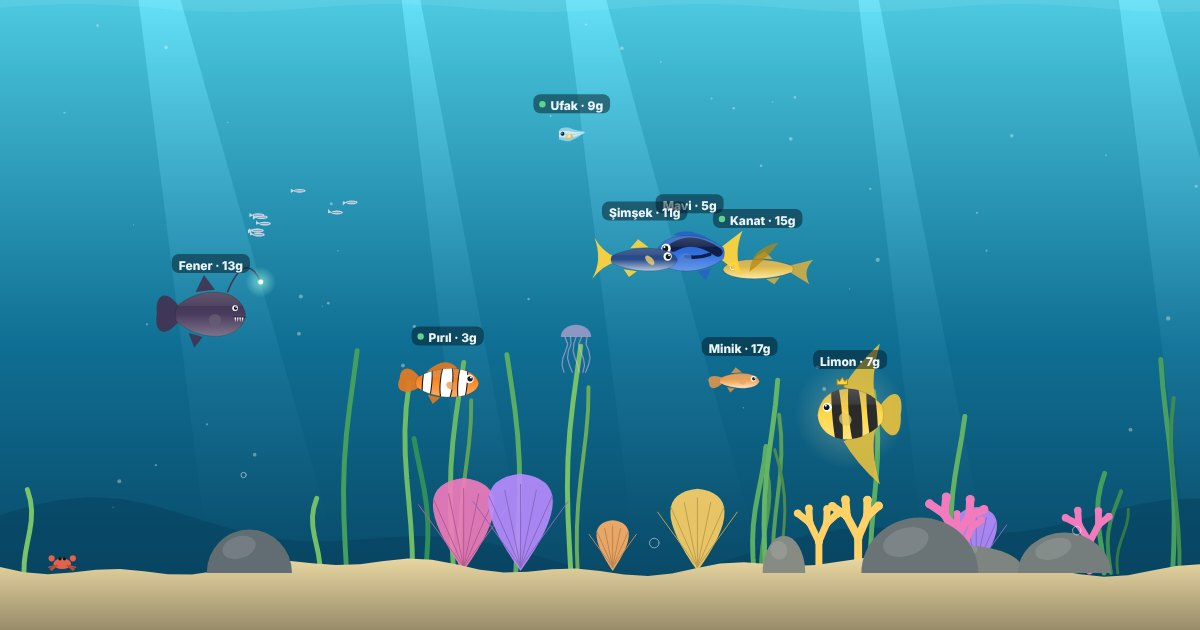
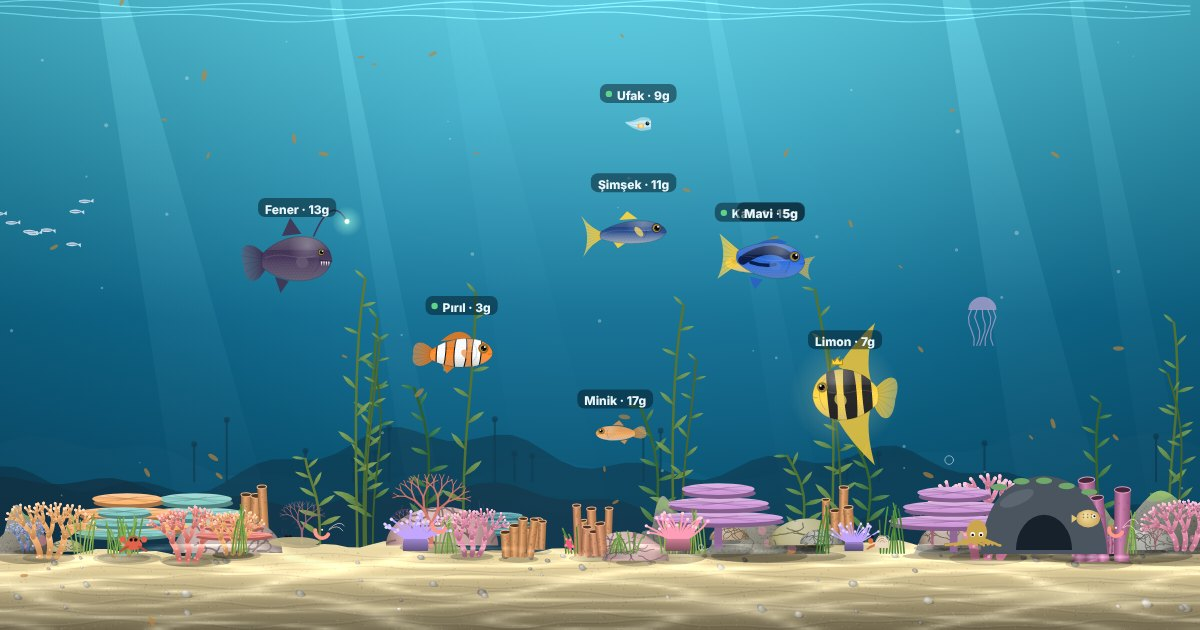
Derin Mavi: gerçekçi ortam — katmanlı uzak sırtlar, dokulu kum ve kayalar, beyin/geyik boynuzu/masa/tüp/yelpaze/kırbaç mercanları, yapraklı yosun, deniz çayırı, anemonlar, kumda ışık ağları; balıklarda kıvrılarak yüzme, pul dokusu, yüzgeç ışınları, gerçekçi göz ve kuma düşen gölge
Claude-Session: https://claude.ai/code/session_01Hy1m5zZ5JCcBmXsF4Vy66L

diff --git a/derin-mavi.html b/derin-mavi.html
@@ -554,12 +554,15 @@ function palet(d, t) {
 
 /* ================= balık çizimi =================
    d: { a: aşama, al: alan, tr: tür, r: renk, z: [aksesuar] } · L: boy (piksel) · yön: +1 sağa, −1 sola */
+/* yüzerken gövdenin arka yarısı kıvrılır */
+let BUK = 0;
+const bk = (x, L) => x < 0 ? BUK * L * Math.pow(x / (L * 0.5), 2) * 0.5 : 0;
 function govdeYol(c, L, h) {
-  const n = L * 0.5, t = -L * 0.5;
+  const n = L * 0.5, t = -L * 0.5, f1 = bk(-L * 0.14, L), ft = bk(t, L);
   c.beginPath(); c.moveTo(n, h * 0.05);
-  c.bezierCurveTo(n - L * 0.04, -h * 0.95, -L * 0.14, -h * 1.12, t, -h * 0.26);
-  c.quadraticCurveTo(t - L * 0.03, 0, t, h * 0.26);
-  c.bezierCurveTo(-L * 0.14, h * 1.12, n - L * 0.04, h * 0.95, n, h * 0.05);
+  c.bezierCurveTo(n - L * 0.04, -h * 0.95, -L * 0.14, -h * 1.12 + f1, t, -h * 0.26 + ft);
+  c.quadraticCurveTo(t - L * 0.03, ft, t, h * 0.26 + ft);
+  c.bezierCurveTo(-L * 0.14, h * 1.12 + f1, n - L * 0.04, h * 0.95, n, h * 0.05);
   c.closePath();
 }
 function kuyrukYol(c, tip, tl, h) {
@@ -595,15 +598,17 @@ function balikCiz(c, d, x, y, L, faz, yon, o = {}) {
   if ((d.a | 0) === 0) { larvaCiz(c, L, faz, alfa); c.restore(); return; }
   const tr = d.a >= 2 && d.tr && TURLER[d.tr], g = tr ? tr.g : YAVRU_G, P = palet(d, t);
   const Lb = L * (g.L || 1), h = Lb * g.H * 0.5, nx = Lb * 0.5;
-  const dalga = Math.sin(faz) * 0.3;
+  const dalga = Math.sin(faz) * 0.3; BUK = o.sabit ? 0 : Math.sin(faz - 0.9) * 0.13;
   if (d.a >= 4) { const ag = c.createRadialGradient(0, 0, Lb * 0.1, 0, 0, Lb * 0.85); ag.addColorStop(0, 'rgba(255,240,190,.28)'); ag.addColorStop(1, 'rgba(255,240,190,0)'); c.fillStyle = ag; c.beginPath(); c.arc(0, 0, Lb * 0.85, 0, TAU); c.fill(); }
   if (g.seffaf) c.globalAlpha = alfa * 0.82;
   const yuzR = g.yuzgecR ? P[g.yuzgecR] : koyu(P[0], 0.12);
   /* kuyruk */
   if (g.kuyruk !== 'yok') {
-    c.save(); c.translate(-Lb * 0.5, 0); c.rotate(dalga);
-    c.fillStyle = g.kuyrukR ? P[g.kuyrukR] : yuzR; c.globalAlpha *= 0.95;
-    kuyrukYol(c, g.kuyruk, Lb * (g.kuyruk === 'hilal' ? 0.3 : 0.28), Math.max(h, Lb * 0.16)); c.fill();
+    c.save(); c.translate(-Lb * 0.5, bk(-Lb * 0.5, Lb)); c.rotate(dalga * 0.75 - BUK * 1.6);
+    const kr = g.kuyrukR ? P[g.kuyrukR] : yuzR, tl = Lb * (g.kuyruk === 'hilal' ? 0.3 : 0.28), th = Math.max(h, Lb * 0.16);
+    const kg = c.createLinearGradient(0, 0, -tl, 0); kg.addColorStop(0, kr); kg.addColorStop(1, rgba(acik(kr, 0.2), 0.7));
+    c.fillStyle = kg; c.globalAlpha *= 0.92; kuyrukYol(c, g.kuyruk, tl, th); c.fill();
+    if (Lb > 26) { c.save(); kuyrukYol(c, g.kuyruk, tl, th); c.clip(); c.strokeStyle = 'rgba(0,0,0,.16)'; c.lineWidth = Math.max(0.5, Lb * 0.006); for (let i = -4; i <= 4; i++) { c.beginPath(); c.moveTo(2, i * th * 0.04); c.lineTo(-tl * 1.1, i * th * 0.34); c.stroke(); } c.restore(); }
     c.restore();
   }
   /* sırt ve karın yüzgeçleri */
@@ -638,7 +643,15 @@ function balikCiz(c, d, x, y, L, faz, yon, o = {}) {
     c.fillStyle = rgba(P[2], 0.75); for (let i = 0; i < 7; i++) { const u = i / 6; c.beginPath(); c.arc(Lb * 0.3 - u * Lb * 0.72, -h * 0.25 + Math.sin(i * 1.7) * h * 0.25, Math.max(0.8, h * 0.11), 0, TAU); c.fill(); }
   }
   /* parlaklık */
-  const pg = c.createLinearGradient(0, -h, 0, 0); pg.addColorStop(0, 'rgba(255,255,255,.22)'); pg.addColorStop(1, 'rgba(255,255,255,0)'); c.fillStyle = pg; c.fillRect(-Lb, -h, Lb * 2, h * 0.7);
+  if (Lb > 30 && !g.seffaf) {
+    c.strokeStyle = 'rgba(0,0,0,.07)'; c.lineWidth = Math.max(0.5, Lb * 0.005); const ps = Math.max(2.2, Lb * 0.045);
+    for (let yy = -h * 0.8; yy <= h * 0.8; yy += ps * 0.9) for (let xx = Lb * 0.22, j = 0; xx > -Lb * 0.46; xx -= ps * 1.1, j++) { const ox = (Math.round(yy / ps) % 2) * ps * 0.55; c.beginPath(); c.arc(xx - ox, yy + bk(xx - ox, Lb), ps * 0.62, -Math.PI / 2, Math.PI / 2); c.stroke(); }
+  }
+  c.strokeStyle = 'rgba(255,255,255,.2)'; c.lineWidth = Math.max(0.6, Lb * 0.008); c.beginPath(); for (let i = 0; i <= 10; i++) { const xx = Lb * 0.26 - i / 10 * Lb * 0.72; c.lineTo(xx, -h * 0.08 + Math.sin(i * 0.6) * h * 0.06 + bk(xx, Lb)); } c.stroke();
+  c.strokeStyle = 'rgba(0,0,0,.2)'; c.lineWidth = Math.max(0.7, Lb * 0.012); c.beginPath(); c.arc(nx - Lb * 0.46, 0, h * 0.75, -0.75, 0.75); c.stroke();
+  const pg = c.createLinearGradient(0, -h, 0, 0); pg.addColorStop(0, 'rgba(255,255,255,.26)'); pg.addColorStop(1, 'rgba(255,255,255,0)'); c.fillStyle = pg; c.fillRect(-Lb, -h, Lb * 2, h * 0.7);
+  const sp = c.createRadialGradient(Lb * 0.15, -h * 0.45, 0, Lb * 0.15, -h * 0.45, Lb * 0.28); sp.addColorStop(0, 'rgba(255,255,255,.28)'); sp.addColorStop(1, 'rgba(255,255,255,0)'); c.fillStyle = sp; c.fillRect(-Lb * 0.2, -h, Lb * 0.7, h);
+  const ag = c.createLinearGradient(0, h * 0.2, 0, h); ag.addColorStop(0, 'rgba(0,0,0,0)'); ag.addColorStop(1, 'rgba(0,10,20,.22)'); c.fillStyle = ag; c.fillRect(-Lb, 0, Lb * 2, h);
   c.restore();
   govdeYol(c, Lb, h); c.strokeStyle = 'rgba(0,0,0,.18)'; c.lineWidth = Math.max(0.6, Lb * 0.012); c.stroke();
   /* ışık organları */
@@ -662,17 +675,20 @@ function balikCiz(c, d, x, y, L, faz, yon, o = {}) {
   if (d.h) { c.fillStyle = 'rgba(255,255,255,.9)'; for (let i = 0; i < 7; i++) { c.beginPath(); c.arc(Lb * (0.25 - i * 0.1), -h * 0.4 + ((i * 37) % 9) / 9 * h * 0.9, Math.max(0.9, h * 0.08), 0, TAU); c.fill(); } }
   /* göz */
   const gx = nx - Lb * 0.15, gy = -h * 0.22, gr = Math.max(1.3, Math.min(h * 0.3, Lb * 0.07) * (g.goz || 1));
-  c.fillStyle = '#fff'; c.beginPath(); c.arc(gx, gy, gr, 0, TAU); c.fill();
-  c.fillStyle = '#0E1A22'; c.beginPath(); c.arc(gx + gr * 0.15, gy, gr * 0.62, 0, TAU); c.fill();
-  c.fillStyle = '#fff'; c.beginPath(); c.arc(gx + gr * 0.35, gy - gr * 0.3, gr * 0.22, 0, TAU); c.fill();
-  if (o.uyku) { c.strokeStyle = '#0E1A22'; c.lineWidth = Math.max(1, gr * 0.35); c.fillStyle = P[0]; c.beginPath(); c.arc(gx, gy, gr * 1.05, Math.PI, TAU); c.fill(); c.beginPath(); c.moveTo(gx - gr, gy); c.lineTo(gx + gr, gy); c.stroke(); }
+  c.fillStyle = koyu(P[0], 0.35); c.beginPath(); c.arc(gx, gy, gr * 1.18, 0, TAU); c.fill();
+  const ig = c.createRadialGradient(gx, gy, gr * 0.3, gx, gy, gr); ig.addColorStop(0, '#E8C56A'); ig.addColorStop(1, '#8A6A2A'); c.fillStyle = ig; c.beginPath(); c.arc(gx, gy, gr, 0, TAU); c.fill();
+  c.fillStyle = '#05090C'; c.beginPath(); c.arc(gx + gr * 0.1, gy, gr * 0.64, 0, TAU); c.fill();
+  c.fillStyle = 'rgba(255,255,255,.95)'; c.beginPath(); c.arc(gx + gr * 0.35, gy - gr * 0.32, gr * 0.24, 0, TAU); c.fill();
+  c.fillStyle = 'rgba(255,255,255,.4)'; c.beginPath(); c.arc(gx - gr * 0.25, gy + gr * 0.3, gr * 0.12, 0, TAU); c.fill();
+  if (!g.dis && !g.gaga) { c.strokeStyle = 'rgba(0,0,0,.35)'; c.lineWidth = Math.max(0.6, Lb * 0.01); c.beginPath(); c.moveTo(nx, h * 0.06); c.quadraticCurveTo(nx - Lb * 0.03, h * 0.16, nx - Lb * 0.07, h * 0.12); c.stroke(); }
+  if (o.uyku) { c.strokeStyle = '#0E1A22'; c.lineWidth = Math.max(1, gr * 0.35); c.fillStyle = P[0]; c.beginPath(); c.arc(gx, gy, gr * 1.22, Math.PI, TAU); c.fill(); c.beginPath(); c.moveTo(gx - gr, gy); c.lineTo(gx + gr, gy); c.stroke(); }
   /* taç */
   if (d.z && d.z.includes('tac')) {
     const tx = Lb * 0.12, ty = -h * (g.sirt === 'yelken' ? 0.95 : 1.02), tw = Math.max(5, Lb * 0.16);
     c.fillStyle = '#FFD23F'; c.strokeStyle = '#B8860B'; c.lineWidth = 1;
     c.beginPath(); c.moveTo(tx - tw / 2, ty); c.lineTo(tx - tw / 2, ty - tw * 0.55); c.lineTo(tx - tw / 4, ty - tw * 0.3); c.lineTo(tx, ty - tw * 0.7); c.lineTo(tx + tw / 4, ty - tw * 0.3); c.lineTo(tx + tw / 2, ty - tw * 0.55); c.lineTo(tx + tw / 2, ty); c.closePath(); c.fill(); c.stroke();
   }
-  c.restore();
+  BUK = 0; c.restore();
 }
 /* aşamaya göre piksel boyu */
 function pikselBoy(d, olcek) {
@@ -748,65 +764,270 @@ function boyut() {
   alanHesap(); sahneKur();
 }
 function alanHesap() {
-  const p = $('panel'), genis = W >= 860, kum = Math.max(54, H * 0.1);
+  const p = $('panel'), genis = W >= 860, kum = Math.max(60, H * 0.13);
   let kumY = H - kum, y2 = H - kum * 0.55;
   /* telefonda panel ekranın altını kaplar: kum zemini panelin hemen üstüne çıkar ki sürpriz ve süsler görünsün */
   if (!p.hidden && !genis) { const sb = $('secimBtn'), ph = p.offsetHeight - (sb.hidden ? 0 : sb.offsetHeight + 9) + 53; kumY = Math.min(kumY, H - ph - 14); y2 = kumY - 26; }
   ALAN = { x1: 20, x2: W - 20, y1: 70 + (W < 520 ? 30 : 0), y2: Math.max(170, y2), kum, kumY };
 }
+/* ================= ortam (sahne) — gerçekçi sürüm =================
+   Durağan katmanlar (uzak arka plan; kum, kaya, mercan) bir kez ekran dışı tuvallere çizilir,
+   her karede tek resim olarak basılır. Yosun, deniz çayırı, anemon ve kumdaki ışık oyunları canlı çizilir. */
+function katman() { const k = document.createElement('canvas'); k.width = Math.max(1, Math.round(W * DPR)); k.height = Math.max(1, Math.round(H * DPR)); const c = k.getContext('2d'); c.setTransform(DPR, 0, 0, DPR, 0, 0); return [k, c]; }
 function sahneKur() {
-  const tm = tema(), r = tohumRnd((gorunenAkv() || 'yerel') + tm), kumY = ALAN.kumY || H - ALAN.kum;
-  const kayalar = [], yosun = [], mercan = [], kabarcik = [], toz = [];
-  for (let i = 0; i < 5; i++) kayalar.push({ x: r() * W, w: (40 + r() * 90) * OL, h: (22 + r() * 40) * OL, c: karis('#5B6770', '#8A8F86', r()) });
-  const yn = Math.round(W / 110) + 3;
-  for (let i = 0; i < yn; i++) yosun.push({ x: r() * W, h: (70 + r() * 170) * OL, faz: r() * TAU, c: karis('#2F8F5B', '#7BC46B', r()), k: 1 + Math.floor(r() * 3) });
-  if (tm === 'resif') for (let i = 0; i < Math.round(W / 160) + 2; i++) mercan.push({ x: r() * W, s: (30 + r() * 45) * OL, c: ['#FF7F7F', '#FFB067', '#F27BBD', '#B98CFF', '#FFD166'][Math.floor(r() * 5)], tip: r() < 0.5 ? 0 : 1, faz: r() * 9 });
+  const tm = tema(), r = tohumRnd((gorunenAkv() || 'yerel') + tm), kumY = ALAN.kumY || H - ALAN.kum, A = ALANLAR[tm];
+  const kayalar = [], yosun = [], mercan = [], kabarcik = [], toz = [], cim = [], anemon = [];
+  const nKaya = Math.round(W / 260) + 3;
+  for (let i = 0; i < nKaya; i++) kayalar.push({ x: r() * W, w: (50 + r() * 110) * OL, h: (24 + r() * 46) * OL, c: tm === 'derin' ? karis('#3C4450', '#55505C', r()) : karis('#6A6F66', '#8E8A7C', r()), tohum: r() * 1e6 });
+  const yn = Math.round(W / (tm === 'derin' ? 200 : 120)) + 2;
+  for (let i = 0; i < yn; i++) yosun.push({ x: r() * W, h: (90 + r() * 200) * OL, faz: r() * TAU, c: tm === 'derin' ? karis('#5A3A2E', '#7A5236', r()) : karis('#3E7D3A', '#8DA94A', r()), k: 1 + Math.floor(r() * 2), yap: 7 + Math.floor(r() * 5) });
+  const nCim = tm === 'derin' ? 0 : Math.round(W / 90);
+  for (let i = 0; i < nCim; i++) cim.push({ x: r() * W, n: 5 + Math.floor(r() * 6), h: (18 + r() * 34) * OL, faz: r() * TAU, c: karis('#4E8F3E', '#9CC25A', r()) });
+  const nAn = tm === 'resif' ? 3 : tm === 'derin' ? 2 : 1;
+  for (let i = 0; i < nAn; i++) anemon.push({ x: (0.15 + r() * 0.7) * W, s: (16 + r() * 14) * OL, c: tm === 'derin' ? ['#7FF3E0', '#B48CFF'][i % 2] : ['#FF9EB8', '#C3A6FF', '#FFC48A', '#9EE6C8'][Math.floor(r() * 4)], faz: r() * TAU, n: 26 });
+  const mercanTur = tm === 'resif' ? ['beyin', 'geyik', 'masa', 'tup', 'yelpaze', 'geyik', 'beyin', 'yelpaze', 'tup', 'masa'] : tm === 'acik' ? ['beyin', 'yelpaze', 'tup'] : ['tup', 'kirbac', 'kirbac', 'tup'];
+  const nM = tm === 'resif' ? Math.round(W / 70) + 4 : Math.round(W / 220) + 1, RENK = ['#FF8A80', '#FFB36B', '#F48FB1', '#B39DDB', '#FFD180', '#80CBC4', '#CE93D8', '#FF7043'];
+  /* arka sıra: daha küçük, suya karışan soluk mercanlar (derinlik hissi) */
+  if (tm !== 'derin') for (let i = 0; i < (tm === 'resif' ? Math.round(W / 55) : Math.round(W / 160)); i++) mercan.push({ tur: mercanTur[Math.floor(r() * mercanTur.length)], x: r() * W, s: (18 + r() * 26) * OL, tohum: r() * 1e6, c: karis(RENK[Math.floor(r() * RENK.length)], A.su[1], 0.42), arka: 1 });
+  for (let i = 0; i < nM; i++) mercan.push({ tur: mercanTur[Math.floor(r() * mercanTur.length)], x: r() * W, s: (tm === 'resif' ? 34 + r() * 46 : 26 + r() * 34) * OL, tohum: r() * 1e6, c: RENK[Math.floor(r() * RENK.length)] });
+  mercan.sort((a, b) => (b.arka || 0) - (a.arka || 0) || b.s - a.s);
   for (let i = 0; i < 3; i++) kabarcik.push({ x: r() * W, t: r() * 3 });
   for (let i = 0; i < 46; i++) toz.push({ x: r() * W, y: r() * H, s: 0.6 + r() * 1.6, v: 3 + r() * 8, f: r() * TAU });
-  SAHNE = { tm, kumY, kayalar, yosun, mercan, kabarcik, toz, bks: [] };
+  SAHNE = { tm, kumY, kayalar, yosun, mercan, kabarcik, toz, bks: [], cim, anemon, kostik: null, kostikZ: 0 };
+  try { SAHNE.arka = arkaKatmanCiz(A, kumY, tm, r); SAHNE.zemin = zeminKatmanCiz(A, kumY, tm, kayalar, mercan); } catch (e) { SAHNE.arka = SAHNE.zemin = null; }
+}
+function arkaKatmanCiz(A, kumY, tm, r) {
+  const [k, c] = katman();
+  const g = c.createLinearGradient(0, 0, 0, H); g.addColorStop(0, A.su[0]); g.addColorStop(0.5, A.su[1]); g.addColorStop(1, A.su[2]); c.fillStyle = g; c.fillRect(0, 0, W, H);
+  /* yüzeye yakın parlaklık */
+  const yg = c.createRadialGradient(W * 0.5, -H * 0.3, 0, W * 0.5, -H * 0.3, H * 1.1); yg.addColorStop(0, `rgba(255,255,255,${tm === 'derin' ? 0.05 : 0.16})`); yg.addColorStop(1, 'rgba(255,255,255,0)'); c.fillStyle = yg; c.fillRect(0, 0, W, H);
+  /* uzak sırtlar: sise karışan iki katman */
+  for (let kat = 0; kat < 3; kat++) {
+    const sis = [0.78, 0.6, 0.42][kat], taban = kumY - [70, 45, 22][kat] * OL, gen = [40, 55, 38][kat] * OL;
+    c.fillStyle = karis(A.su[kat === 0 ? 1 : 2], tm === 'derin' ? '#0A0F18' : '#1C3340', 1 - sis); c.globalAlpha = 0.55 + kat * 0.12;
+    c.beginPath(); c.moveTo(0, H);
+    const f1 = r() * 9, f2 = r() * 9;
+    for (let x = 0; x <= W + 20; x += 16) c.lineTo(x, taban - gen * (0.55 + 0.45 * Math.sin(x * 0.004 + f1)) - gen * 0.35 * Math.sin(x * 0.013 + f2) - gen * 0.15 * Math.sin(x * 0.05 + kat));
+    c.lineTo(W, H); c.closePath(); c.fill();
+    /* uzak mercan ve yosun gölgeleri */
+    if (kat === 1 && tm !== 'derin') for (let i = 0; i < Math.round(W / 70); i++) { const x = r() * W, h = (20 + r() * 50) * OL, y0 = taban - gen * 0.4; c.fillRect(x, y0 - h, 2 * OL, h); c.beginPath(); c.arc(x + 1, y0 - h, 3 * OL, 0, TAU); c.fill(); }
+  }
+  c.globalAlpha = 1;
+  /* kenar karartma */
+  const v = c.createRadialGradient(W / 2, H * 0.45, Math.min(W, H) * 0.35, W / 2, H * 0.45, Math.max(W, H) * 0.8); v.addColorStop(0, 'rgba(0,0,0,0)'); v.addColorStop(1, `rgba(0,10,25,${tm === 'derin' ? 0.5 : 0.32})`); c.fillStyle = v; c.fillRect(0, 0, W, H);
+  return k;
+}
+function kumKenar(x) { return SAHNE ? 0 : 0; }
+function zeminKatmanCiz(A, kumY, tm, kayalar, mercan) {
+  const [k, c] = katman(), r = tohumRnd('zemin' + W + tm), kum = A.kum;
+  const ust = x => kumY + 5 * Math.sin(x * 0.013) + 3 * Math.sin(x * 0.041) + 2 * Math.sin(x * 0.11);
+  /* kum gövdesi */
+  const kg = c.createLinearGradient(0, kumY - 8, 0, H); kg.addColorStop(0, acik(kum, 0.12)); kg.addColorStop(0.25, kum); kg.addColorStop(1, koyu(kum, 0.42)); c.fillStyle = kg;
+  c.beginPath(); c.moveTo(0, H); for (let x = 0; x <= W + 12; x += 12) c.lineTo(x, ust(x)); c.lineTo(W, H); c.closePath(); c.fill();
+  c.save(); c.beginPath(); c.moveTo(0, H); for (let x = 0; x <= W + 12; x += 12) c.lineTo(x, ust(x)); c.lineTo(W, H); c.closePath(); c.clip();
+  /* dalga izleri */
+  for (let y = kumY + 6; y < H; y += 6 + (y - kumY) * 0.08) {
+    const f = r() * 9, a = 2 + (y - kumY) * 0.02;
+    c.strokeStyle = 'rgba(255,255,255,.10)'; c.lineWidth = 1; c.beginPath(); for (let x = 0; x <= W; x += 10) c.lineTo(x, y + Math.sin(x * 0.025 + f) * a + Math.sin(x * 0.07 + f * 2) * a * 0.4); c.stroke();
+    c.strokeStyle = 'rgba(0,0,0,.08)'; c.beginPath(); for (let x = 0; x <= W; x += 10) c.lineTo(x, y + 2 + Math.sin(x * 0.025 + f) * a + Math.sin(x * 0.07 + f * 2) * a * 0.4); c.stroke();
+  }
+  /* kum taneleri */
+  const nT = Math.round(W * (H - kumY) / 60);
+  for (let i = 0; i < nT; i++) { const x = r() * W, y = kumY + r() * (H - kumY); c.fillStyle = r() < 0.5 ? 'rgba(255,255,255,.18)' : 'rgba(60,40,20,.14)'; c.fillRect(x, y, 1.2, 1.2); }
+  /* çakıllar ve kabuklar */
+  for (let i = 0; i < Math.round(W / 22); i++) {
+    const x = r() * W, y = kumY + 6 + Math.pow(r(), 1.6) * (H - kumY - 10), s = (1.5 + r() * 3.5) * OL * (0.7 + (y - kumY) / (H - kumY) * 0.8);
+    c.fillStyle = 'rgba(0,0,0,.18)'; c.beginPath(); c.ellipse(x + s * 0.3, y + s * 0.35, s, s * 0.45, 0, 0, TAU); c.fill();
+    const pg = c.createRadialGradient(x - s * 0.3, y - s * 0.3, 0, x, y, s); const pc = karis('#8C8577', '#D8D0BC', r()); pg.addColorStop(0, acik(pc, 0.4)); pg.addColorStop(1, koyu(pc, 0.2)); c.fillStyle = pg; c.beginPath(); c.ellipse(x, y, s, s * 0.7, r(), 0, TAU); c.fill();
+  }
+  c.restore();
+  /* kayalar */
+  for (const kya of kayalar) kayaCiz(c, kya, kumY);
+  /* mercanlar */
+  for (const m of mercan) mercanCiz(c, m, ust(m.x) + (m.arka ? -3 : 4), tm);
+  /* ön kenarda hafif gölge */
+  const og = c.createLinearGradient(0, H - 60, 0, H); og.addColorStop(0, 'rgba(0,0,0,0)'); og.addColorStop(1, 'rgba(0,0,0,.18)'); c.fillStyle = og; c.fillRect(0, H - 60, W, 60);
+  return k;
+}
+function kayaCiz(c, k, kumY) {
+  const r = tohumRnd('kaya' + k.tohum), n = 14, pts = [], y0 = kumY + 6;
+  for (let i = 0; i <= n; i++) { const a = Math.PI + i / n * Math.PI, gur = 0.78 + r() * 0.3; pts.push([k.x + Math.cos(a) * k.w / 2 * gur, y0 + Math.sin(a) * k.h * gur * (0.9 + 0.2 * Math.sin(i * 1.3))]); }
+  /* temas gölgesi */
+  c.fillStyle = 'rgba(0,0,0,.28)'; c.beginPath(); c.ellipse(k.x + k.w * 0.06, y0 + 2, k.w * 0.56, k.h * 0.16, 0, 0, TAU); c.fill();
+  const yol = () => { c.beginPath(); pts.forEach((p, i) => { if (!i) c.moveTo(p[0], p[1]); else { const q = pts[i - 1]; c.quadraticCurveTo(q[0], q[1], (p[0] + q[0]) / 2, (p[1] + q[1]) / 2); } }); c.lineTo(pts[n][0], pts[n][1]); c.closePath(); };
+  yol(); const g = c.createLinearGradient(k.x - k.w * 0.3, y0 - k.h, k.x + k.w * 0.3, y0); g.addColorStop(0, acik(k.c, 0.22)); g.addColorStop(0.55, k.c); g.addColorStop(1, koyu(k.c, 0.45)); c.fillStyle = g; c.fill();
+  c.save(); yol(); c.clip();
+  for (let i = 0; i < k.w * k.h / 18; i++) { const x = k.x + (r() - 0.5) * k.w, y = y0 - r() * k.h; c.fillStyle = r() < 0.5 ? 'rgba(255,255,255,.12)' : 'rgba(0,0,0,.14)'; c.fillRect(x, y, 1.4, 1.4); }
+  /* çatlaklar */
+  c.strokeStyle = 'rgba(0,0,0,.22)'; c.lineWidth = 1; for (let i = 0; i < 3; i++) { let x = k.x + (r() - 0.5) * k.w * 0.6, y = y0 - k.h * (0.3 + r() * 0.5); c.beginPath(); c.moveTo(x, y); for (let j = 0; j < 4; j++) { x += (r() - 0.5) * k.w * 0.15; y += r() * k.h * 0.18; c.lineTo(x, y); } c.stroke(); }
+  /* yosun ve kabuklu alg */
+  if (SAHNE.tm !== 'derin') for (let i = 0; i < 9; i++) { const x = k.x + (r() - 0.5) * k.w * 0.8, y = y0 - k.h * (0.75 + r() * 0.3); c.fillStyle = rgba(karis('#5E9A45', '#A3C566', r()), 0.55); c.beginPath(); c.ellipse(x, y, k.w * (0.08 + r() * 0.1), k.h * 0.12, r() - 0.5, 0, TAU); c.fill(); }
+  if (SAHNE.tm === 'resif') for (let i = 0; i < 5; i++) { const x = k.x + (r() - 0.5) * k.w * 0.7, y = y0 - k.h * r() * 0.6; c.fillStyle = 'rgba(236,140,170,.45)'; c.beginPath(); c.arc(x, y, k.h * (0.05 + r() * 0.06), 0, TAU); c.fill(); }
+  /* üstte ışık */
+  const lg = c.createLinearGradient(0, y0 - k.h, 0, y0 - k.h * 0.5); lg.addColorStop(0, 'rgba(255,255,255,.16)'); lg.addColorStop(1, 'rgba(255,255,255,0)'); c.fillStyle = lg; c.fillRect(k.x - k.w, y0 - k.h * 1.2, k.w * 2, k.h * 0.7);
+  c.restore();
+}
+function mercanCiz(c, m, y, tm) {
+  const r = tohumRnd('m' + m.tohum), s = m.s, x = m.x, renk = m.c;
+  c.save();
+  c.fillStyle = 'rgba(0,0,0,.22)'; c.beginPath(); c.ellipse(x, y + 2, s * 0.55, s * 0.1, 0, 0, TAU); c.fill();
+  switch (m.tur) {
+    case 'beyin': {
+      const w = s * 0.9, h = s * 0.62, renk2 = karis(renk, '#C9B47A', 0.55);
+      c.beginPath(); c.ellipse(x, y, w, h, 0, Math.PI, TAU); c.closePath();
+      const g = c.createRadialGradient(x - w * 0.3, y - h * 0.8, 0, x, y - h * 0.3, w * 1.1); g.addColorStop(0, acik(renk2, 0.35)); g.addColorStop(0.6, renk2); g.addColorStop(1, koyu(renk2, 0.4)); c.fillStyle = g; c.fill();
+      c.save(); c.clip(); c.strokeStyle = rgba(koyu(renk2, 0.45), 0.75); c.lineWidth = Math.max(1, s * 0.028); c.lineCap = 'round';
+      for (let i = 0; i < 16; i++) { let px = x + (r() - 0.5) * w * 2, py = y - r() * h, a = r() * TAU; c.beginPath(); c.moveTo(px, py); for (let j = 0; j < 14; j++) { a += (r() - 0.5) * 1.6; px += Math.cos(a) * s * 0.07; py += Math.sin(a) * s * 0.05; c.lineTo(px, py); } c.stroke(); }
+      c.restore(); break;
+    }
+    case 'geyik': { /* dallanan (geyik boynuzu) mercan */
+      const dalC = (bx, by, a, l, w, n) => {
+        if (n <= 0 || l < 2) { c.fillStyle = acik(renk, 0.55); c.beginPath(); c.arc(bx, by, w * 0.7, 0, TAU); c.fill(); return; }
+        const ex = bx + Math.cos(a) * l, ey = by + Math.sin(a) * l;
+        const g = c.createLinearGradient(bx, by, ex, ey); g.addColorStop(0, koyu(renk, 0.25)); g.addColorStop(1, acik(renk, 0.15));
+        c.strokeStyle = g; c.lineWidth = w; c.lineCap = 'round'; c.beginPath(); c.moveTo(bx, by); c.quadraticCurveTo(bx + Math.cos(a + 0.3) * l * 0.5, by + Math.sin(a + 0.3) * l * 0.5, ex, ey); c.stroke();
+        c.fillStyle = rgba(acik(renk, 0.5), 0.6); for (let i = 0; i < 3; i++) { const u = r(); c.beginPath(); c.arc(bx + (ex - bx) * u + (r() - 0.5) * w, by + (ey - by) * u + (r() - 0.5) * w, Math.max(0.7, w * 0.18), 0, TAU); c.fill(); }
+        const k = 2 + (r() < 0.35 ? 1 : 0);
+        for (let i = 0; i < k; i++) dalC(ex, ey, a + (i - (k - 1) / 2) * (0.5 + r() * 0.3), l * (0.68 + r() * 0.12), w * 0.72, n - 1);
+      };
+      for (let i = 0; i < 3; i++) dalC(x + (i - 1) * s * 0.18, y, -Math.PI / 2 + (i - 1) * 0.35, s * 0.42, s * 0.13, 4);
+      break;
+    }
+    case 'masa': { /* katmanlı masa mercanı */
+      c.fillStyle = koyu(renk, 0.3); c.fillRect(x - s * 0.06, y - s * 0.5, s * 0.12, s * 0.5);
+      for (let k = 0; k < 3; k++) {
+        const py = y - s * (0.48 + k * 0.22), pw = s * (1.0 - k * 0.22), ph = s * 0.09;
+        c.fillStyle = koyu(renk, 0.35); c.beginPath(); c.ellipse(x + s * 0.02, py + ph * 0.7, pw, ph, 0, 0, TAU); c.fill();
+        const g = c.createLinearGradient(0, py - ph, 0, py + ph); g.addColorStop(0, acik(renk, 0.35)); g.addColorStop(1, renk); c.fillStyle = g; c.beginPath(); c.ellipse(x, py, pw, ph, 0, 0, TAU); c.fill();
+        c.strokeStyle = rgba(koyu(renk, 0.3), 0.5); c.lineWidth = 0.8; for (let i = 0; i < 10; i++) { c.beginPath(); c.moveTo(x, py); c.lineTo(x + Math.cos(i / 10 * Math.PI) * pw * (i % 2 ? 1 : -1), py + Math.sin(i / 10 * TAU) * ph * 0.6); c.stroke(); }
+      }
+      break;
+    }
+    case 'tup': { /* tüp sünger */
+      const n = 3 + Math.floor(r() * 3), rc = tm === 'derin' ? karis('#7A6A9A', '#B08BC0', r()) : karis('#E39A55', '#C86FA8', r());
+      for (let i = 0; i < n; i++) {
+        const tx = x + (i - (n - 1) / 2) * s * 0.22 + (r() - 0.5) * s * 0.08, th = s * (0.6 + r() * 0.8), tw = s * (0.1 + r() * 0.05), lean = (r() - 0.5) * 0.25;
+        c.save(); c.translate(tx, y); c.rotate(lean);
+        const g = c.createLinearGradient(-tw, 0, tw, 0); g.addColorStop(0, koyu(rc, 0.35)); g.addColorStop(0.4, acik(rc, 0.15)); g.addColorStop(1, koyu(rc, 0.3)); c.fillStyle = g;
+        c.beginPath(); c.moveTo(-tw * 0.9, 0); c.lineTo(-tw, -th); c.lineTo(tw, -th); c.lineTo(tw * 0.9, 0); c.closePath(); c.fill();
+        c.fillStyle = koyu(rc, 0.65); c.beginPath(); c.ellipse(0, -th, tw, tw * 0.38, 0, 0, TAU); c.fill(); c.strokeStyle = acik(rc, 0.3); c.lineWidth = 1; c.stroke();
+        c.fillStyle = 'rgba(0,0,0,.12)'; for (let j = 0; j < 8; j++) { c.beginPath(); c.arc((r() - 0.5) * tw * 1.4, -r() * th * 0.9, 0.9, 0, TAU); c.fill(); }
+        c.restore();
+      }
+      break;
+    }
+    case 'yelpaze': { /* deniz yelpazesi (gorgonya) */
+      const rc = karis(renk, '#B0306A', 0.45), h = s * 1.3;
+      c.globalAlpha = 0.9; c.strokeStyle = rc; c.lineCap = 'round';
+      const kol = (bx, by, a, l, w, n) => { if (n <= 0) return; const ex = bx + Math.cos(a) * l, ey = by + Math.sin(a) * l; c.lineWidth = w; c.beginPath(); c.moveTo(bx, by); c.lineTo(ex, ey); c.stroke(); kol(ex, ey, a - 0.32 - r() * 0.15, l * 0.78, w * 0.75, n - 1); kol(ex, ey, a + 0.32 + r() * 0.15, l * 0.78, w * 0.75, n - 1); };
+      kol(x, y, -Math.PI / 2, h * 0.28, s * 0.07, 6);
+      /* ağ dokusu */
+      c.globalAlpha = 0.25; c.lineWidth = 0.6; for (let i = 0; i < 26; i++) { const a = -Math.PI / 2 + (r() - 0.5) * 1.9, rr = h * (0.35 + r() * 0.55), a2 = a + (r() - 0.5) * 0.4; c.beginPath(); c.moveTo(x + Math.cos(a) * rr, y + Math.sin(a) * rr); c.lineTo(x + Math.cos(a2) * rr * 0.92, y + Math.sin(a2) * rr * 0.92); c.stroke(); }
+      c.globalAlpha = 1; break;
+    }
+    case 'kirbac': { /* derin su kırbaç mercanı */
+      const rc = karis('#E0B060', '#F07050', r());
+      for (let i = 0; i < 3; i++) { const h = s * (1.2 + r() * 1.2); c.strokeStyle = rc; c.lineWidth = Math.max(1, s * 0.05); c.beginPath(); c.moveTo(x + i * 4, y); c.bezierCurveTo(x + i * 4 + s * 0.3, y - h * 0.4, x + i * 4 - s * 0.3, y - h * 0.7, x + i * 4 + (r() - 0.5) * s * 0.5, y - h); c.stroke(); }
+      break;
+    }
+  }
+  c.restore();
+}
+/* canlı: yapraklı yosun */
+function yosunCiz(c, y, t, kumY) {
+  for (let k = 0; k < y.k; k++) {
+    const bx = y.x + k * 9 * OL, hh = y.h * (1 - k * 0.22), pts = [];
+    for (let i = 0; i <= 10; i++) { const u = i / 10; pts.push([bx + Math.sin(t * 0.8 + y.faz + u * 2.6 + k) * 16 * u * u * OL + Math.sin(t * 1.7 + u * 6) * 2 * u, kumY + 6 - hh * u]); }
+    c.strokeStyle = koyu(y.c, 0.25 + k * 0.1); c.lineWidth = (2.6 - k * 0.6) * OL; c.lineCap = 'round'; c.beginPath(); pts.forEach((p, i) => i ? c.lineTo(p[0], p[1]) : c.moveTo(p[0], p[1])); c.stroke();
+    for (let i = 1; i < pts.length; i++) {
+      if (i < 2) continue; const p = pts[i], q = pts[i - 1], a = Math.atan2(p[1] - q[1], p[0] - q[0]), yan = i % 2 ? 1 : -1, ll = (14 + (10 - i) * 1.4) * OL * (1 - k * 0.2), sal = Math.sin(t * 1.3 + i + y.faz) * 0.25;
+      c.save(); c.translate(p[0], p[1]); c.rotate(a + yan * (1.0 + sal));
+      const g = c.createLinearGradient(0, 0, ll, 0); g.addColorStop(0, koyu(y.c, 0.15 + k * 0.1)); g.addColorStop(1, acik(y.c, 0.15)); c.fillStyle = g; c.globalAlpha = 0.92;
+      c.beginPath(); c.moveTo(0, 0); c.quadraticCurveTo(ll * 0.5, -ll * 0.22, ll, 0); c.quadraticCurveTo(ll * 0.5, ll * 0.22, 0, 0); c.fill(); c.globalAlpha = 1;
+      c.restore();
+    }
+  }
+}
+function cimCiz(c, m, t, kumY) {
+  for (let i = 0; i < m.n; i++) {
+    const bx = m.x + (i - m.n / 2) * 3 * OL, h = m.h * (0.7 + ((i * 37) % 10) / 25), sw = Math.sin(t * 1.1 + m.faz + i * 0.7) * 8 * OL;
+    c.strokeStyle = i % 2 ? m.c : koyu(m.c, 0.18); c.lineWidth = 1.6 * OL; c.beginPath(); c.moveTo(bx, kumY + 5); c.quadraticCurveTo(bx + sw * 0.3, kumY + 5 - h * 0.6, bx + sw, kumY + 5 - h); c.stroke();
+  }
+}
+function anemonCiz(c, a, t, kumY) {
+  const s = a.s, x = a.x, y = kumY + 3, parla = SAHNE.tm === 'derin';
+  const bg = c.createLinearGradient(0, y - s * 0.5, 0, y); bg.addColorStop(0, koyu(a.c, 0.15)); bg.addColorStop(1, koyu(a.c, 0.5)); c.fillStyle = bg;
+  c.beginPath(); c.moveTo(x - s * 0.45, y); c.quadraticCurveTo(x - s * 0.5, y - s * 0.45, x - s * 0.35, y - s * 0.5); c.lineTo(x + s * 0.35, y - s * 0.5); c.quadraticCurveTo(x + s * 0.5, y - s * 0.45, x + s * 0.45, y); c.fill();
+  for (let i = 0; i < a.n; i++) {
+    const u = i / (a.n - 1), ax = x - s * 0.4 + u * s * 0.8, aci = -Math.PI / 2 + (u - 0.5) * 2.2, l = s * (0.7 + 0.25 * Math.sin(i * 2.3)), sal = Math.sin(t * 1.6 + a.faz + i * 0.5) * 0.35;
+    const ex = ax + Math.cos(aci + sal) * l, ey = y - s * 0.5 + Math.sin(aci + sal) * l;
+    c.strokeStyle = a.c; c.lineWidth = Math.max(1.2, s * 0.07); c.lineCap = 'round'; c.beginPath(); c.moveTo(ax, y - s * 0.48); c.quadraticCurveTo(ax + Math.cos(aci) * l * 0.5, y - s * 0.5 + Math.sin(aci) * l * 0.5, ex, ey); c.stroke();
+    c.fillStyle = parla ? `rgba(200,255,245,${0.6 + 0.4 * Math.sin(t * 2 + i)})` : acik(a.c, 0.55); c.beginPath(); c.arc(ex, ey, Math.max(1.2, s * 0.06), 0, TAU); c.fill();
+  }
+}
+/* kumda ve suyun alt kısmında oynayan ışık ağları */
+function kostikCiz(c, t) {
+  if (SAHNE.tm === 'derin') return;
+  const gw = 72, gh = 30;
+  if (!SAHNE.kostik) { const k = document.createElement('canvas'); k.width = gw; k.height = gh; SAHNE.kostik = k; SAHNE.kostikD = k.getContext('2d').createImageData(gw, gh); }
+  SAHNE.kostikZ -= 1; if (SAHNE.kostikZ <= 0) {
+    SAHNE.kostikZ = 2; const d = SAHNE.kostikD.data;
+    for (let j = 0; j < gh; j++) for (let i = 0; i < gw; i++) {
+      const x = i * 0.42, y = j * 0.42 * 2.2;
+      const v = Math.abs(Math.sin(x + t * 0.9) + Math.sin(y * 0.8 - t * 0.7) + Math.sin((x + y) * 0.7 + t * 1.1) + Math.sin((x - y * 0.6) * 0.9 - t * 0.5));
+      const a = Math.pow(Math.max(0, 1 - v * 0.55), 3) * 255, o = (j * gw + i) * 4;
+      d[o] = 255; d[o + 1] = 255; d[o + 2] = 235; d[o + 3] = a;
+    }
+    SAHNE.kostik.getContext('2d').putImageData(SAHNE.kostikD, 0, 0);
+  }
+  const kumY = SAHNE.kumY;
+  c.save(); c.globalCompositeOperation = 'lighter'; c.globalAlpha = SAHNE.tm === 'acik' ? 0.32 : 0.26; c.imageSmoothingEnabled = true;
+  c.drawImage(SAHNE.kostik, 0, kumY - 4, W, H - kumY + 4);
+  c.restore();
 }
 function arkaPlan(c, t) {
   const A = ALANLAR[SAHNE.tm], kumY = SAHNE.kumY;
-  const g = c.createLinearGradient(0, 0, 0, H); g.addColorStop(0, A.su[0]); g.addColorStop(0.55, A.su[1]); g.addColorStop(1, A.su[2]); c.fillStyle = g; c.fillRect(0, 0, W, H);
+  if (SAHNE.arka) c.drawImage(SAHNE.arka, 0, 0, W, H); else { const g = c.createLinearGradient(0, 0, 0, H); g.addColorStop(0, A.su[0]); g.addColorStop(1, A.su[2]); c.fillStyle = g; c.fillRect(0, 0, W, H); }
   /* ışık hüzmeleri */
   c.save(); c.globalCompositeOperation = 'lighter';
-  for (let i = 0; i < 5; i++) {
-    const x = W * (0.12 + i * 0.2) + Math.sin(t * 0.15 + i * 2) * 40, w = 50 + 40 * Math.sin(i * 3.1 + t * 0.2);
-    const lg = c.createLinearGradient(0, 0, 0, H * 0.85); lg.addColorStop(0, `rgba(255,255,255,${SAHNE.tm === 'derin' ? 0.04 : 0.09})`); lg.addColorStop(1, 'rgba(255,255,255,0)');
-    c.fillStyle = lg; c.beginPath(); c.moveTo(x - w * 0.3, 0); c.lineTo(x + w * 0.3, 0); c.lineTo(x + w * 1.6 + 60, H * 0.85); c.lineTo(x - w * 0.2 + 60, H * 0.85); c.fill();
+  for (let i = 0; i < 6; i++) {
+    const x = W * (0.08 + i * 0.17) + Math.sin(t * 0.13 + i * 2) * 50, w = 40 + 36 * Math.sin(i * 3.1 + t * 0.21), alfa = (SAHNE.tm === 'derin' ? 0.03 : 0.075) * (0.6 + 0.4 * Math.sin(t * 0.3 + i * 1.7));
+    const lg = c.createLinearGradient(0, 0, 0, H * 0.9); lg.addColorStop(0, `rgba(255,255,240,${alfa})`); lg.addColorStop(1, 'rgba(255,255,240,0)');
+    c.fillStyle = lg; c.beginPath(); c.moveTo(x - w * 0.25, 0); c.lineTo(x + w * 0.25, 0); c.lineTo(x + w * 1.4 + 90, H * 0.9); c.lineTo(x - w * 0.3 + 90, H * 0.9); c.fill();
   }
   c.restore();
-  /* su yüzeyi dalgası */
-  c.fillStyle = 'rgba(255,255,255,.08)'; c.beginPath(); c.moveTo(0, 0); for (let x = 0; x <= W; x += 20) c.lineTo(x, 8 + Math.sin(x * 0.02 + t * 1.2) * 4); c.lineTo(W, 0); c.fill();
+  /* su yüzeyi: aşağıdan görünen dalgalı parıltı */
+  c.save(); c.globalCompositeOperation = 'lighter'; c.strokeStyle = SAHNE.tm === 'derin' ? 'rgba(255,255,255,.04)' : 'rgba(255,255,255,.18)'; c.lineWidth = 1.2;
+  for (let k = 0; k < 3; k++) { c.beginPath(); for (let x = 0; x <= W; x += 14) c.lineTo(x, 5 + k * 6 + Math.sin(x * 0.03 + t * 1.3 + k) * 3 + Math.sin(x * 0.011 - t * 0.7) * 2); c.stroke(); }
+  c.restore();
   /* yüzen toz */
-  c.fillStyle = SAHNE.tm === 'derin' ? 'rgba(160,255,230,.5)' : 'rgba(255,255,255,.35)';
+  c.fillStyle = SAHNE.tm === 'derin' ? 'rgba(160,255,230,.45)' : 'rgba(255,255,255,.3)';
   for (const p of SAHNE.toz) { p.y -= p.v * 0.016; p.x += Math.sin(t * 0.5 + p.f) * 0.15; if (p.y < -5) { p.y = H + 5; p.x = Math.random() * W; } c.beginPath(); c.arc(p.x, p.y, p.s, 0, TAU); c.fill(); }
-  /* uzak tepeler */
-  c.fillStyle = rgba(A.su[2], 0.55); c.beginPath(); c.moveTo(0, kumY); for (let x = 0; x <= W; x += 30) c.lineTo(x, kumY - 30 - 26 * Math.sin(x * 0.006 + 1) - 14 * Math.sin(x * 0.017)); c.lineTo(W, H); c.lineTo(0, H); c.fill();
   hedefSusleri(c, t, 'arka');
-  /* yosunlar */
-  for (const y of SAHNE.yosun) for (let k = 0; k < y.k; k++) {
-    const bx = y.x + k * 7 * OL, hh = y.h * (1 - k * 0.18);
-    c.strokeStyle = koyu(y.c, k * 0.12); c.lineWidth = (5 - k) * OL; c.lineCap = 'round'; c.beginPath(); c.moveTo(bx, kumY + 6);
-    for (let i = 1; i <= 8; i++) { const u = i / 8; c.lineTo(bx + Math.sin(t * 0.9 + y.faz + u * 3 + k) * 12 * u * OL, kumY + 6 - hh * u); } c.stroke();
-  }
-  /* mercanlar */
-  for (const m of SAHNE.mercan) {
-    c.fillStyle = m.c; c.strokeStyle = m.c;
-    if (m.tip === 0) { c.lineWidth = m.s * 0.13; c.lineCap = 'round'; dal(c, m.x, kumY + 4, -Math.PI / 2, m.s * 0.55, 3, m.faz); }
-    else { c.globalAlpha = 0.9; c.beginPath(); c.moveTo(m.x, kumY + 4); c.quadraticCurveTo(m.x - m.s * 0.9, kumY - m.s * 1.2, m.x, kumY - m.s * 1.3); c.quadraticCurveTo(m.x + m.s * 0.9, kumY - m.s * 1.2, m.x, kumY + 4); c.fill(); c.globalAlpha = 1; c.strokeStyle = koyu(m.c, 0.25); c.lineWidth = 1; for (let i = -3; i <= 3; i++) { c.beginPath(); c.moveTo(m.x, kumY); c.lineTo(m.x + i * m.s * 0.22, kumY - m.s * (1.15 - Math.abs(i) * 0.08)); c.stroke(); } }
-  }
-  /* kum */
-  const kg = c.createLinearGradient(0, kumY - 10, 0, H); kg.addColorStop(0, A.kum); kg.addColorStop(1, koyu(A.kum, 0.35)); c.fillStyle = kg;
-  c.beginPath(); c.moveTo(0, kumY + 8); for (let x = 0; x <= W; x += 24) c.lineTo(x, kumY + 6 * Math.sin(x * 0.013) + 4 * Math.sin(x * 0.041)); c.lineTo(W, H); c.lineTo(0, H); c.fill();
+  /* yosunlar (kökleri kumun arkasında kalır) */
+  for (const y of SAHNE.yosun) yosunCiz(c, y, t, kumY);
+  if (SAHNE.zemin) c.drawImage(SAHNE.zemin, 0, 0, W, H);
+  else { c.fillStyle = A.kum; c.fillRect(0, kumY, W, H - kumY); }
+  kostikCiz(c, t);
+  for (const m of SAHNE.cim) cimCiz(c, m, t, kumY);
+  for (const a of SAHNE.anemon) anemonCiz(c, a, t, kumY);
   sakliCiz(c);
-  /* kayalar */
-  for (const k of SAHNE.kayalar) { c.fillStyle = k.c; c.beginPath(); c.ellipse(k.x, kumY + 6, k.w / 2, k.h, 0, Math.PI, TAU); c.fill(); c.fillStyle = 'rgba(255,255,255,.12)'; c.beginPath(); c.ellipse(k.x - k.w * 0.12, kumY - k.h * 0.45, k.w * 0.2, k.h * 0.25, -0.3, 0, TAU); c.fill(); }
   hedefSusleri(c, t, 'on');
   magaraCiz(c); koseCiz(c); surprizCiz(c);
   /* kabarcık kaynakları */
   for (const b of SAHNE.kabarcik) { b.t -= 0.016; if (b.t <= 0) { b.t = 0.5 + Math.random() * 2.5; SAHNE.bks.push({ x: b.x, y: kumY, r: 1.5 + Math.random() * (Math.random() < 0.2 ? 7 : 3.5), f: Math.random() * TAU, altin: Math.random() < 0.04 }); } }
 }
+/* balıkların kuma düşen gölgesi */
+function golgeCiz(c, liste) {
+  const kumY = SAHNE.kumY;
+  for (const b of liste) {
+    if (!b.L) continue; const yuk = kumY - b.y; if (yuk < -10 || yuk > 320) continue;
+    const k = 1 - yuk / 320, w = b.L * (0.45 + (1 - k) * 0.35);
+    const g = c.createRadialGradient(b.x, kumY + 6, 0, b.x, kumY + 6, w); g.addColorStop(0, `rgba(0,15,25,${0.28 * k})`); g.addColorStop(1, 'rgba(0,15,25,0)');
+    c.fillStyle = g; c.beginPath(); c.ellipse(b.x, kumY + 6, w, w * 0.22, 0, 0, TAU); c.fill();
+  }
+}
+
 function dal(c, x, y, a, l, n, f) {
   if (n <= 0 || l < 3) return;
   const x2 = x + Math.cos(a) * l, y2 = y + Math.sin(a) * l;
@@ -993,6 +1214,7 @@ function ciz(dt) {
   /* balıklar: küçükler önde */
   const liste = [...BAL.values()].sort((a, b) => (b.L || 0) - (a.L || 0));
   for (const b of liste) balikGuncelle(b, dt);
+  golgeCiz(c, liste);
   for (const b of liste) { const dd = dansDonusum(b, dt); balikCiz(c, b.d, b.x, b.y + (dd ? dd.oy : 0), b.L, b.faz, dd && dd.yon != null ? dd.yon : b.yon, { t: zaman, uyku: b.uyku || b.geceUyku, solgun: b.solgun, aci: dd ? dd.aci : 0, alfa: b.sersem > 0 ? 0.6 + Math.sin(zaman * 30) * 0.3 : 1 }); }
   /* parçacıklar */
   for (let i = PARC.length - 1; i >= 0; i--) {
